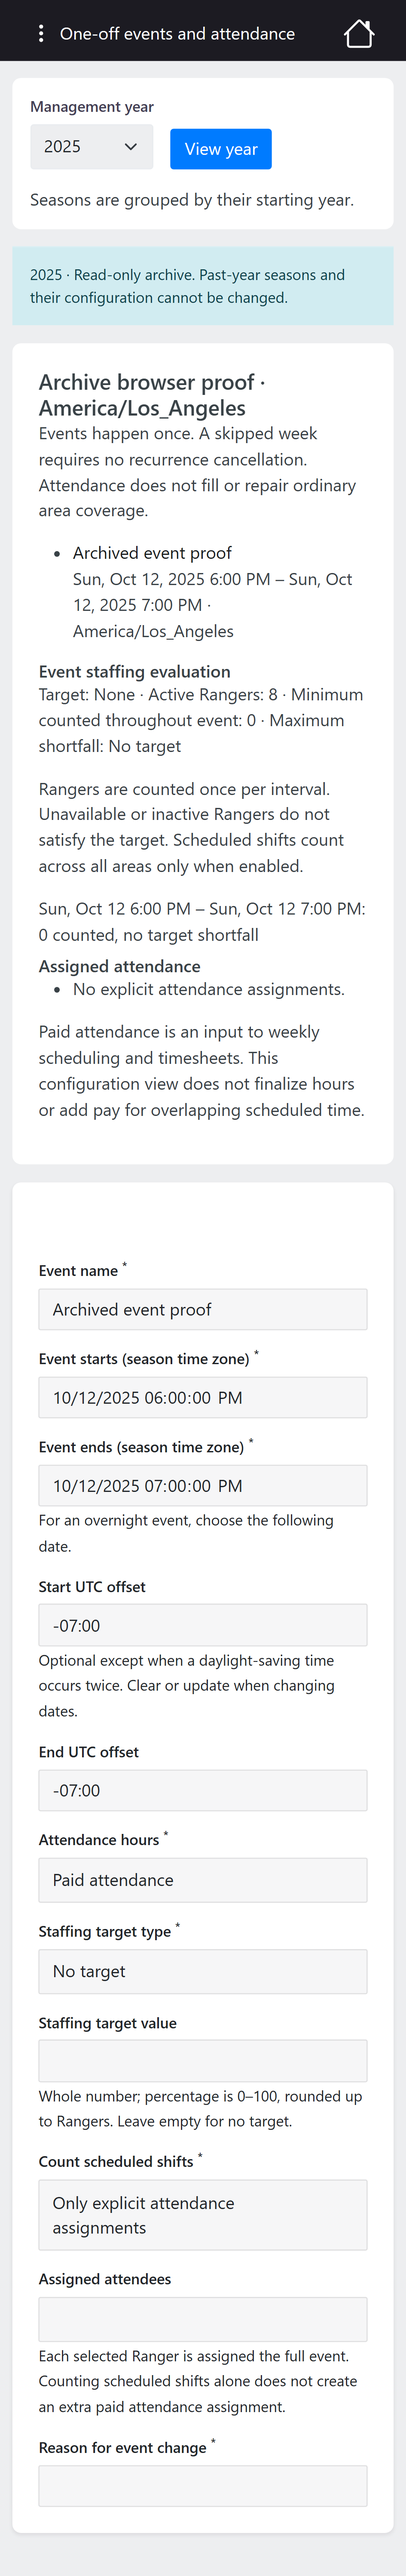
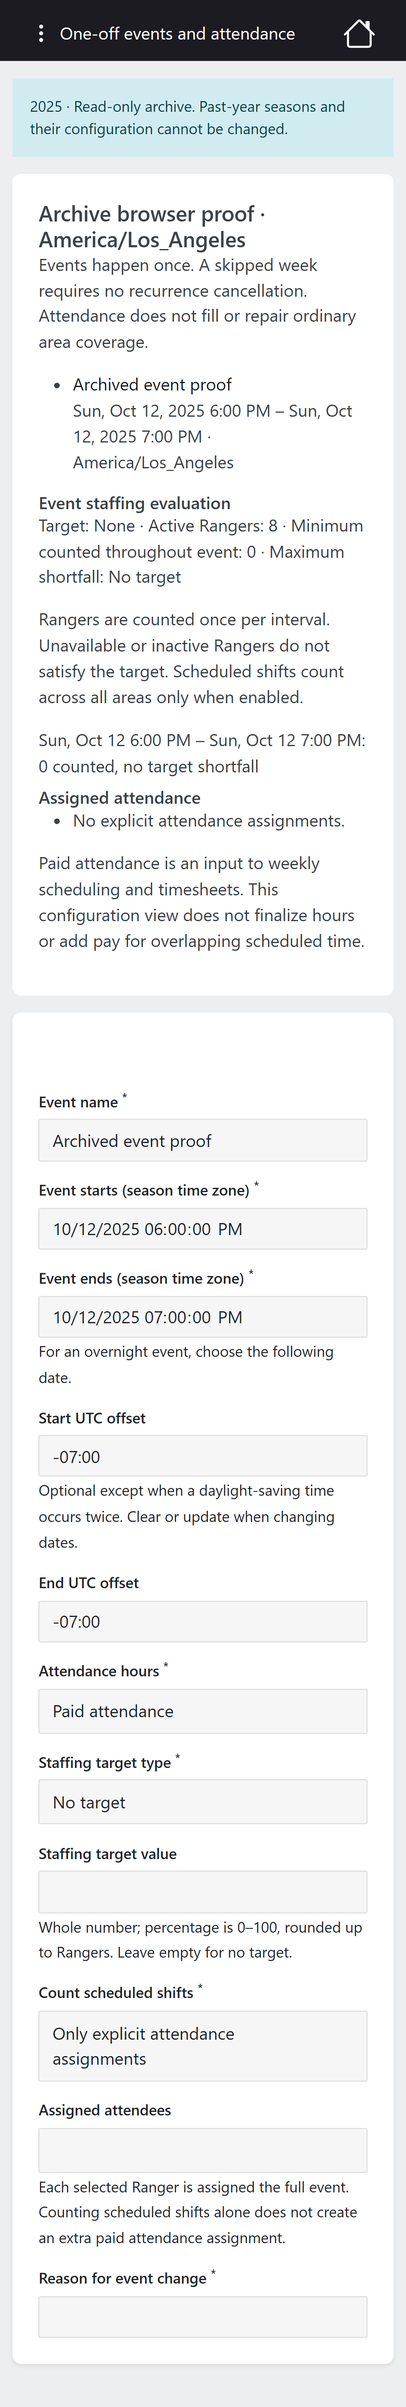
fix(seasons): move year switching into the management menu
Keep occasional year switching in a collapsed sidebar item labeled with the
selected year, freeing each screen from a repeated selector form. Preserve
archive notices, year-scoped links and independent browser tabs.

Refs: RUSH-020
Requirements: R-01, R-06
Tests: php vendor/bin/pest tests/Feature/ManagementYearTest.php --compact (8 passed, 75 assertions); php vendor/bin/pint --test (passed); npm run client:test:e2e -- management-years.spec.ts (2 passed, desktop/mobile); npm run client:lint (passed after formatting); npm run client:typecheck (passed); git diff --check (passed)

Changed region(s): [[0.0307, 0.0, 0.982, 0.4352], [0.0921, 0.4663, 0.8593, 0.9637]]

diff --git a/client/e2e/integration/management-years.spec.ts b/client/e2e/integration/management-years.spec.ts
@@ -28,14 +28,27 @@ test('Management browses past starting years read-only and keeps browser tabs in
     (await context.cookies()).find((cookie) => cookie.name === 'XSRF-TOKEN')!.value,
   );
   await page.goto('/admin/main');
-  const currentYear = Number(
-    await page.getByLabel('Management year', { exact: true }).inputValue(),
-  );
-  await expect(page.getByText('Archive browser proof', { exact: true })).toHaveCount(0);
-  await page.getByLabel('Management year', { exact: true }).selectOption(String(currentYear - 1));
-  await page.getByRole('button', { name: 'View year', exact: true }).click();
-  await expect(page.getByText(/Read-only archive/)).toBeVisible();
   const menu = page.locator('#headerMenuCollapse');
+  const yearMenu = menu.locator('#menu-management-year');
+  const yearLabel = page.getByRole('link', { name: /^Year: \d{4}$/, includeHidden: true });
+  const openYears = async () => {
+    if (!(await menu.isVisible())) await page.locator('.header-toggler').click();
+    await expect(yearMenu).not.toBeVisible();
+    await yearLabel.click();
+    await expect(yearMenu).toHaveClass(/\bshow\b/);
+  };
+  const currentYear = Number((await yearLabel.textContent())!.match(/\d{4}/)![0]);
+  await expect(page.getByRole('button', { name: 'View year', exact: true })).toHaveCount(0);
+  await expect(page.getByText('Archive browser proof', { exact: true })).toHaveCount(0);
+  await openYears();
+  await mkdir('../docs/evidence/RUSH-020', { recursive: true });
+  await page.screenshot({
+    path: `../docs/evidence/RUSH-020/year-menu-${test.info().project.name}.png`,
+    fullPage: true,
+  });
+  await yearMenu.getByRole('link', { name: String(currentYear - 1), exact: true }).click();
+  await expect(page.getByText(/Read-only archive/)).toBeVisible();
+  await expect(yearMenu).not.toBeVisible();
   if (!(await menu.isVisible())) await page.locator('.header-toggler').click();
   await menu.getByRole('link', { name: 'Seasons and phases', exact: true }).click();
   await menu
@@ -64,18 +77,15 @@ test('Management browses past starting years read-only and keeps browser tabs in
     ).status(),
   ).toBe(403);
   await page.reload();
-  await expect(page.getByLabel('Management year', { exact: true })).toHaveValue(
-    String(currentYear - 1),
-  );
+  await expect(yearLabel).toContainText(`Year: ${currentYear - 1}`);
   const otherTab = await context.newPage();
   await otherTab.goto('/admin/main');
-  await expect(otherTab.getByLabel('Management year', { exact: true })).toHaveValue(
-    String(currentYear),
-  );
+  await expect(
+    otherTab.getByRole('link', { name: /^Year: \d{4}$/, includeHidden: true }),
+  ).toContainText(`Year: ${currentYear}`);
   await otherTab.close();
   await page.reload();
   await expect(page.getByLabel('Event name', { exact: false })).toBeDisabled();
-  await mkdir('../docs/evidence/RUSH-020', { recursive: true });
   await page.screenshot({
     path: `../docs/evidence/RUSH-020/year-archive-${test.info().project.name}.png`,
     fullPage: true,
@@ -83,8 +93,10 @@ test('Management browses past starting years read-only and keeps browser tabs in
   expect(
     await page.evaluate(() => document.documentElement.scrollWidth <= window.innerWidth + 1),
   ).toBe(true);
-  await page.getByLabel('Management year', { exact: true }).selectOption(String(currentYear + 1));
-  await page.getByRole('button', { name: 'View year', exact: true }).click();
+  await openYears();
+  await yearMenu.getByRole('link', { name: String(currentYear + 1), exact: true }).click();
+  await expect(yearLabel).toContainText(`Year: ${currentYear + 1}`);
+  await expect(yearMenu).not.toBeVisible();
   await expect(page.getByText(/Read-only archive/)).toHaveCount(0);
   await expect(
     page.getByRole('link', { name: 'Create a season to configure events' }),

diff --git a/server/resources/views/admin/screen.blade.php b/server/resources/views/admin/screen.blade.php
@@ -3,18 +3,6 @@
 @section('content')
     @php($managementYear = app(\App\Orchid\ManagementYear::class))
     @php($yearContext = $managementYear->context())
-    <form method="get" action="{{ route('platform.main') }}" class="bg-white rounded p-3 mb-3 d-flex flex-wrap align-items-end gap-3">
-        <div>
-            <label for="management-year" class="form-label">Management year</label>
-            <select id="management-year" name="year" class="form-select">
-                @foreach($managementYear->years() as $year)
-                    <option value="{{ $year }}" @selected($year === $yearContext['year'])>{{ $year }}</option>
-                @endforeach
-            </select>
-        </div>
-        <button type="submit" class="btn btn-primary">View year</button>
-        <p class="mb-0">Seasons are grouped by their starting year.</p>
-    </form>
     @if($yearContext['readOnly'])
         <p role="status" class="alert alert-info">{{ $yearContext['year'] }} · Read-only archive. Past-year seasons and their configuration cannot be changed.</p>
         <style>

diff --git a/server/tests/Feature/ManagementYearTest.php b/server/tests/Feature/ManagementYearTest.php
@@ -108,7 +108,7 @@ it('locks a cross-year season at midnight in its season time zone', function () 
 it('offers historical notice years even when no season was configured for that year', function () {
     Unavailability::create(['organization_id' => $this->manager->organization_id,
         'organization_membership_id' => $this->ranger->id, 'starts_at' => '2021-01-01T07:00:00Z', 'ends_at' => '2021-01-01T10:00:00Z', 'revision' => 1]);
-    $this->get('/admin/main')->assertOk()->assertSee('value="2020"', false)->assertDontSee('value="2021"', false);
+    $this->get('/admin/main')->assertOk()->assertSee('/admin/main?year=2020', false)->assertDontSee('/admin/main?year=2021', false);
 });
 
 it('does not expose other organizations through the selector or archived links', function () {

diff --git a/server/app/Orchid/PlatformProvider.php b/server/app/Orchid/PlatformProvider.php
@@ -53,6 +53,10 @@ class PlatformProvider extends OrchidServiceProvider
             Menu::make('Scheduling policies')->icon('bs.sliders')->list($sections['policies']),
             Menu::make('Events and attendance')->icon('bs.calendar-event')->list($sections['events']),
             Menu::make('Unavailability notices')->icon('bs.calendar-x')->list($sections['unavailability']),
+            Menu::make('Year: '.$year->context()['year'])->icon('bs.clock-history')
+                ->set('slug', 'management-year')->active([])
+                ->list(array_map(fn (int $value) => Menu::make((string) $value)
+                    ->route('platform.main', ['year' => $value]), $year->years())),
             Menu::make('Return to RUSH')->url('/')->icon('bs.arrow-left'),
         ];
     }

diff --git a/docs/evidence/RUSH-020/README.md b/docs/evidence/RUSH-020/README.md
@@ -19,6 +19,8 @@ split by local week/phase for later scheduling and timesheet integration.
 No recurrence, pay calculation, publication, or offline event administration.
 
 The owner-approved year selector scopes menus and lists to season starting year.
+It lives in a collapsed **Year: YYYY** sidebar item, leaving page content free of
+the switching form. Choosing a year opens its Management overview.
 Cross-year seasons appear only under their starting year and become read-only
 when that year is past in the season time zone. Historical configuration remains
 visible; Server services reject edits, new events and backdating into archived
@@ -139,6 +141,19 @@ Year-selector follow-up verification:
 This follow-up requires no additional migration or data rewrite. Restart PHP
 when deploying into a runtime that disables opcode timestamp checks. The local
 development PHP container was restarted; its database was not reseeded.
+
+Compact year-menu refinement:
+
+- `php vendor/bin/pest tests/Feature/ManagementYearTest.php --compact` on SQLite:
+  **8 passed, 75 assertions**.
+- `npm run client:test:e2e -- management-years.spec.ts`: **2 passed** on
+  desktop/mobile against the rebuilt production-PWA fixture. Covers collapsed
+  defaults, past/future switching, menu filtering, independent tabs, reloads,
+  archived controls and rejected forged edits.
+- Pint, Client lint and TypeScript: **passed**. The initial Prettier check reported
+  formatting in the updated test; formatting was corrected and lint rerun.
+- Visually reviewed the [desktop year menu](year-menu-desktop.png),
+  [mobile year menu](year-menu-mobile.png), and refreshed archive screenshots.
 
 Run `npm run docker:server:migrate -- --force` against the intended deployment
 after backup. The additive migration creates events, retained attendance, audit

diff --git a/docs/decisions/0020-one-off-events.md b/docs/decisions/0020-one-off-events.md
@@ -63,8 +63,11 @@ the season's IANA time zone. Seasons, phases, coverage, policies and events
 remain viewable; their shared Server services reject edits, new events within
 archived seasons, and creation/backdating of seasons into past years.
 
-The selector appears on every Management screen. Menus and season lists contain
-only seasons starting in the selected year. Existing record URLs derive their
+Year switching lives in a collapsed sidebar item labeled with the selected year,
+so occasional switching does not occupy the working area of every screen. Opening
+it reveals year links; choosing one returns to the Management overview. Archived
+screens retain a visible read-only notice. Menus and season lists contain only
+seasons starting in the selected year. Existing record URLs derive their
 year from the record; list/create links carry the year in the URL. No shared
 session preference is used, so separate tabs remain independent. Available
 season/notice years, the current year and next year are selectable. Current/future
